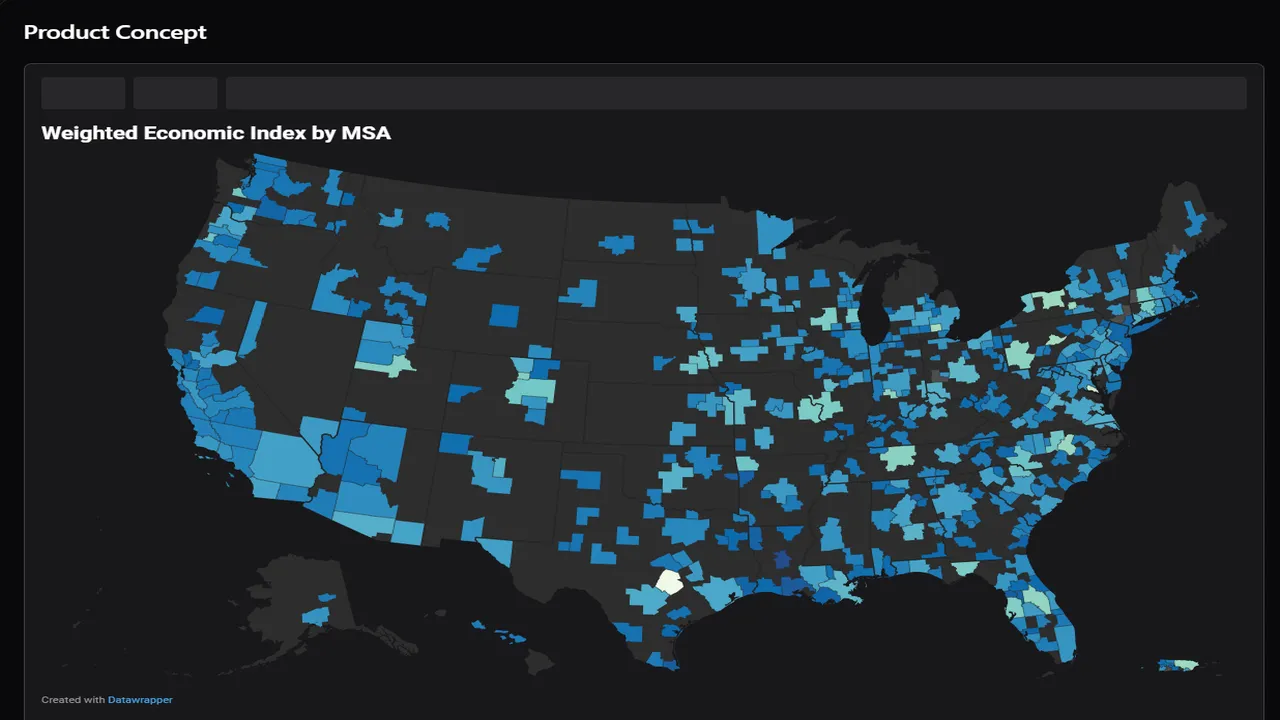
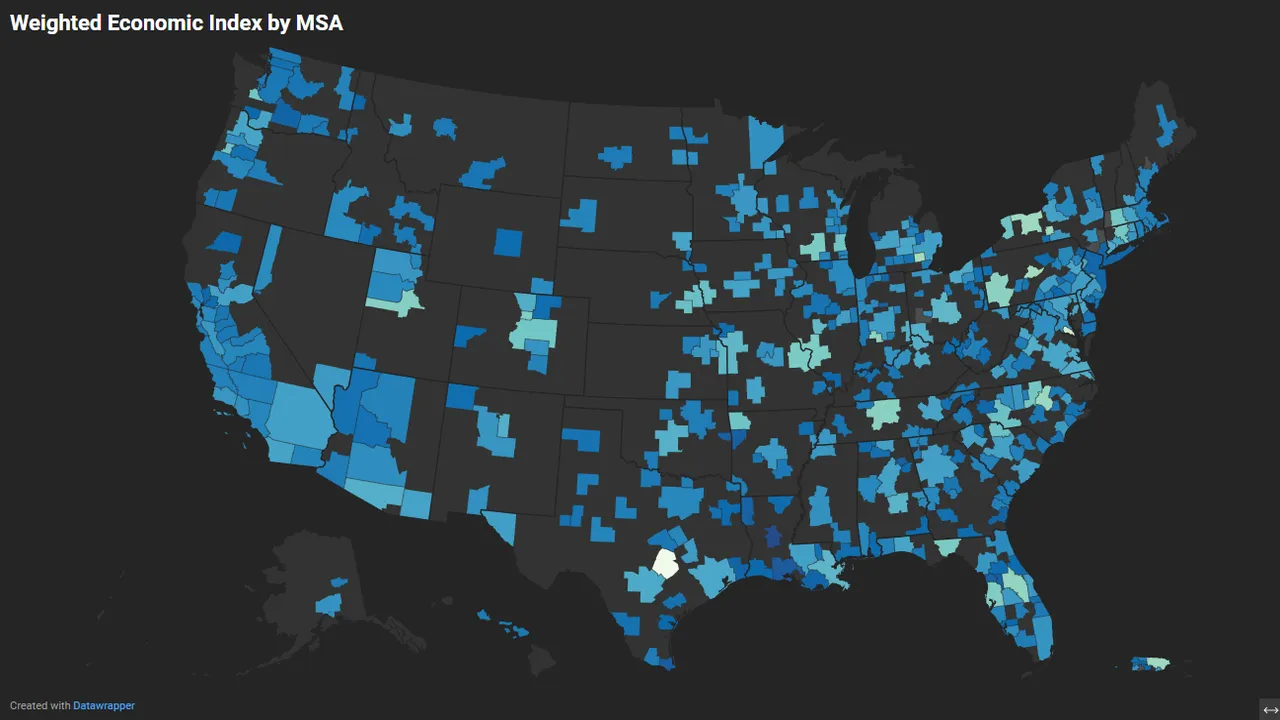
Update demonstration project screenshot image

diff --git a/app/economic-index/page.tsx b/app/economic-index/page.tsx
@@ -1,7 +1,7 @@
 'use client'
 
 import { motion } from 'motion/react'
-import { useState, useEffect } from 'react'
+import { useState, useEffect, useRef } from 'react'
 import Link from 'next/link'
 import { Spotlight } from '@/components/ui/spotlight'
 import { MatrixPlaceholder } from '@/components/ui/MatrixPlaceholder'
@@ -30,7 +30,7 @@ const TRANSITION_SECTION = {
 }
 
 export default function EconomicIndex() {
-  // State for scrolling to top
+  // State for scrolling to top button
   const [showScrollTop, setShowScrollTop] = useState(false)
   
   // Check scroll position to show/hide scroll to top button
@@ -137,7 +137,7 @@ export default function EconomicIndex() {
       day: "Day 3-4",
       date: "Mar 25-26",
       title: "Framework Design and Prototype Development",
-      status: "WIP" as const,
+      status: "Complete" as const,
       tasks: [
         {
           title: "✅ Download Anthropic's Economic Index data via Huggingface and review"
@@ -169,7 +169,7 @@ export default function EconomicIndex() {
       day: "Day 5-6",
       date: "Mar 27-28",
       title: "Validation Framework and Final Documentation",
-      status: "Backlog" as const,
+      status: "WIP" as const,
       tasks: [
         {
           title: "Finalize functional prototype display"
@@ -226,7 +226,7 @@ export default function EconomicIndex() {
             "Map geographic distribution of occupations from Economic Index",
             "Visualize geographic concentration of occupations from Economic Index",
             "Connect UNESCO AI Ethics framework of scenario dilemmas & suggested responses",
-            "Introduce economic development tool for potential AI job displacement planning",
+            "Introduce economic development tool for potential AI job automation and augmentation planning",
             "Provide Anthropic internal Sales teams potential hypertargeted segments"
           ]}
           methodologies={[
@@ -234,7 +234,7 @@ export default function EconomicIndex() {
             "Customer development with Lean Canvas and Ten Types of Innovation frameworks",
             "Continuous Innovation framework with Fermi estimates for revenue modeling",
             "User Stories and Journey Mapping, and Kanban for workflow management",
-            "Flourish, Kaggle"
+            "Flourish, Kaggle, DataWrapper"
           ]}
           collaborators="Research (Anthropic Economic Index team) | Policy (policymaking.ai) | Engineering (Claude Code) | UI/UX (Claude) | Strategic Product Management (Chris Carnell)"
           tripwire="The proposed solution was a geographical view. After mapping data to plot, gather insights on if any other visualization type may be more necessary."
@@ -260,7 +260,7 @@ export default function EconomicIndex() {
           <div className="relative h-full w-full rounded-[15px] bg-white p-3 sm:p-4 md:p-6 dark:bg-zinc-950 overflow-hidden">
             <h2 className="text-xl sm:text-2xl font-medium mb-4 sm:mb-6">Product Concept</h2>
             
-            {/* Dashboard Wireframe only */}
+            {/* Dashboard Wireframe with integrated carousel */}
             <div className="overflow-x-hidden">
               <DashboardWireframe />
             </div>
@@ -275,8 +275,8 @@ export default function EconomicIndex() {
       >
         <ProjectTimeline 
           milestones={timelineMilestones}
-          currentPhase="Framework Design and Prototype Development"
-          defaultOpenIndex={1}
+          currentPhase="Validation Framework and Final Documentation"
+          defaultOpenIndex={2}
         />
       </motion.section>
       

diff --git a/components/ui/DashboardWireframe.tsx b/components/ui/DashboardWireframe.tsx
@@ -26,6 +26,28 @@ export function DashboardWireframe() {
       window.removeEventListener('message', handleDatawrapperMessage)
     }
   }, [])
+  
+  // Handle loading the Datawrapper script when the component is mounted
+  useEffect(() => {
+    // For the visualization
+    const script = document.createElement('script')
+    script.src = 'https://datawrapper.dwcdn.net/aD2yT/embed.js'
+    script.async = true
+    script.defer = true
+    script.charset = 'utf-8'
+    
+    const targetEl = document.getElementById('datawrapper-vis-aD2yT')
+    if (targetEl) {
+      targetEl.innerHTML = ''; // Clear previous content
+      targetEl.appendChild(script)
+    }
+    
+    return () => {
+      if (targetEl && script.parentNode) {
+        script.parentNode.removeChild(script)
+      }
+    }
+  }, [])
 
   return (
     <div className="rounded-lg border border-zinc-200 dark:border-zinc-700 p-2 sm:p-4 bg-white dark:bg-zinc-900">
@@ -36,19 +58,20 @@ export function DashboardWireframe() {
         <div className="h-8 sm:h-10 w-full rounded bg-zinc-100 dark:bg-zinc-800"></div>
       </div>
       
-      {/* Datawrapper embed - title comes from within the iframe */}
+      {/* Datawrapper embed - single visualization */}
       <div className="mb-6">
-        <iframe 
-          title="Economic Index Data" 
-          aria-label="Map" 
-          id="datawrapper-chart-aD2yT" 
-          src="https://datawrapper.dwcdn.net/aD2yT/1/" 
-          scrolling="no" 
-          frameBorder="0" 
-          style={{ width: 0, minWidth: '100%', border: 'none' }} 
-          height="416" 
-          data-external="1"
-        />
+        <div className="overflow-hidden rounded-md">
+          <div style={{minHeight: "416px"}} id="datawrapper-vis-aD2yT">
+            <noscript><img src="https://datawrapper.dwcdn.net/aD2yT/full.png" alt="Weighted Economic Index by MSA" /></noscript>
+          </div>
+        </div>
+      </div>
+      
+      {/* Formula explanation */}
+      <div className="mb-6 text-sm text-zinc-600 dark:text-zinc-400">
+        <p className="mb-2">Weighted Economic Index by MSA calculation: Economic_MSA_Score = Σ (Employment_i / Total_MSA_Employment) × Economic_Index_i</p>
+        {/* <p className="mb-2">Log10 Economic Index by MSA calculation: Log10_Economic_MSA_Score = log10(Economic_MSA_Score)</p> */}
+        <p className="font-bold italic">DISCLAIMER: THESE VISUALIZATION ARE SPECIFICALLY FOR DEMONSTRATION PURPOSES ONLY. THE UNDERLYING DATA IS PRELIMINARY, HAS BEEN USER-MODEFIED, AND WILL NOT REFLECT FINAL RESULTS.</p>
       </div>
       
       <div className="grid grid-cols-12 gap-3 sm:gap-4">

diff --git a/app/data.ts b/app/data.ts
@@ -79,7 +79,7 @@ export const SNAPSHOT: Snapshot[] = [
     id: "snapshot23",
   },
   {
-    title: "WIP Update 23: OOO 3/27",
+    title: "WIP Update 23: Out of Office 3/27",
     description: "Begin wrapup of v0.22 on 3/28",
     id: "snapshot23a",
   },
